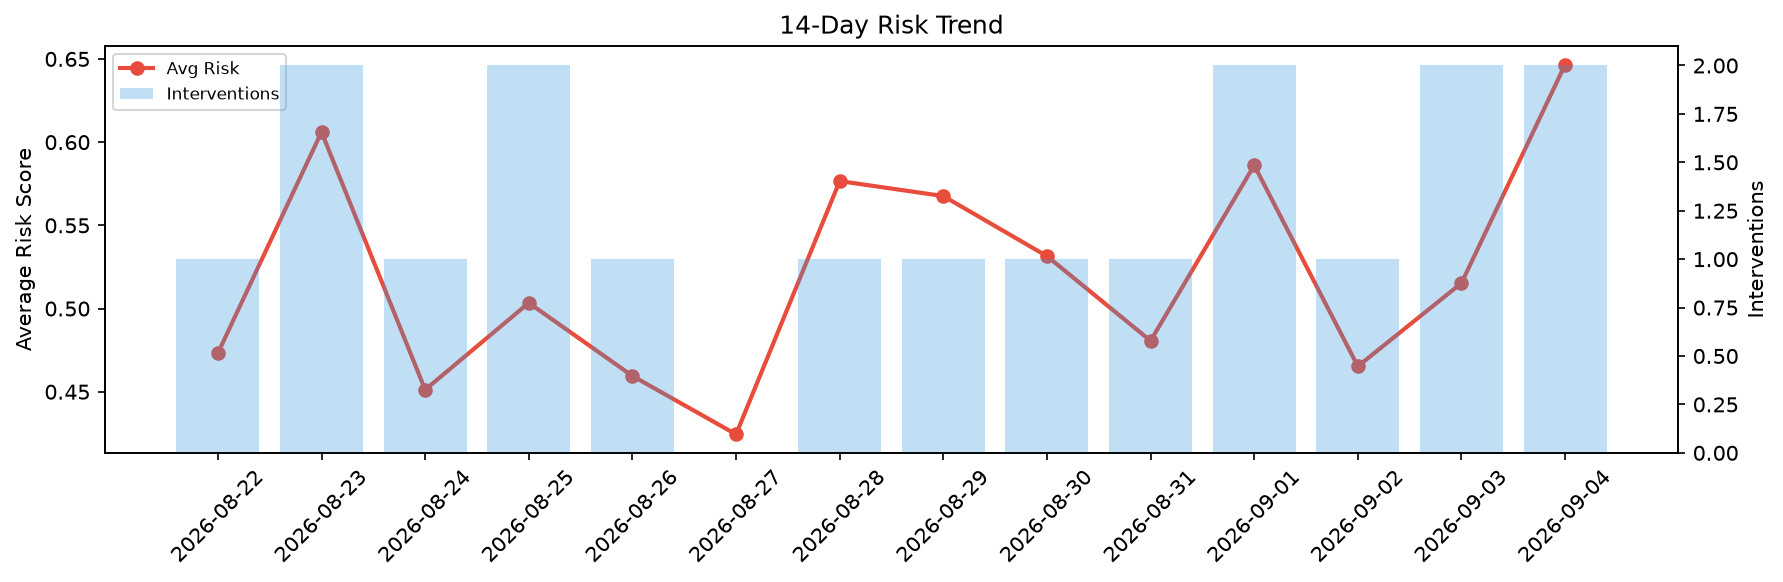
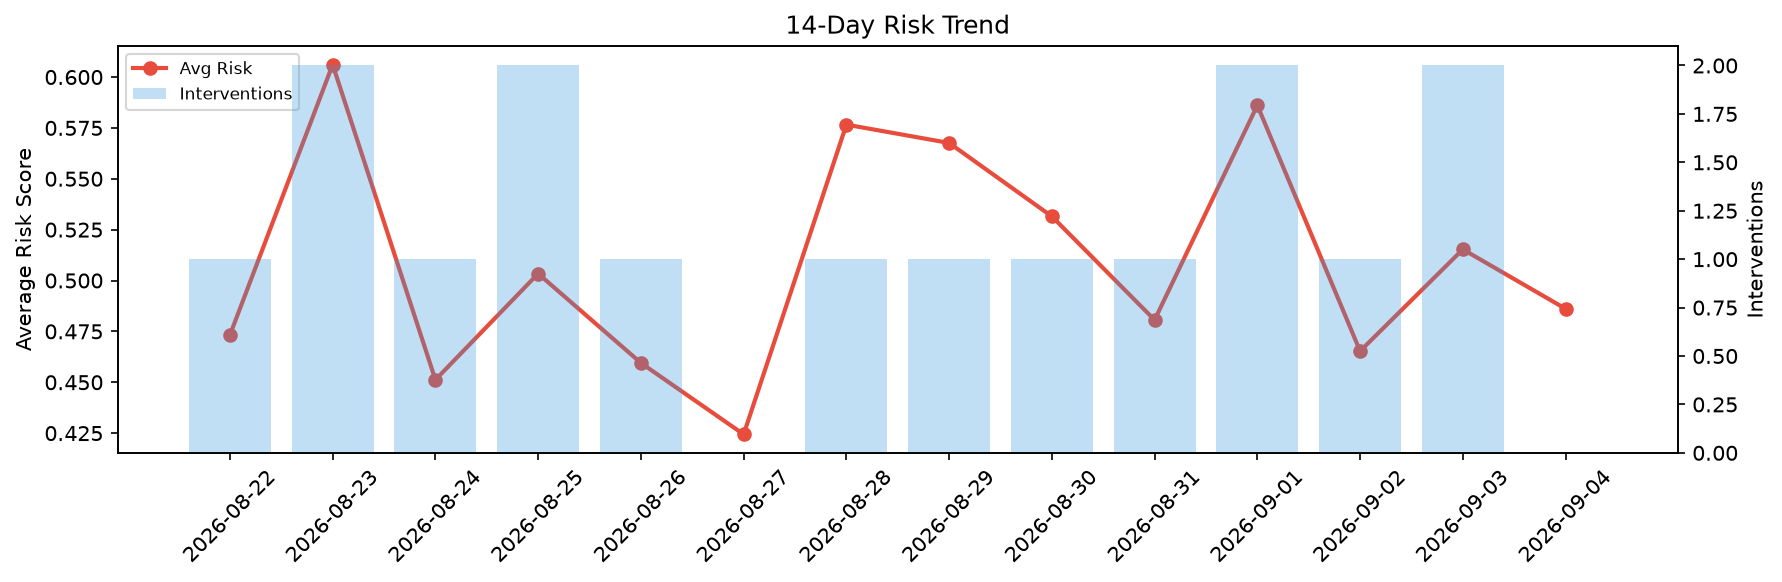
agent-improvement: daily cycle 2026-09-04T17:36

diff --git a/logs/2026-09-04.md b/logs/2026-09-04.md
@@ -1,6 +1,6 @@
 # Agent Improvement Report — 2026-09-04
 
-**Cycle ID:** `0a1d2b08` | **Avg Risk:** 0.6466 | **Interventions:** 2/4
+**Cycle ID:** `c0dbe144` | **Avg Risk:** 0.4861 | **Interventions:** 0/4
 
 ![Dashboard](2026-09-04_dashboard.png)
 
@@ -10,18 +10,18 @@
 
 | Domain | Risk Score | Decision | Alerts |
 |--------|-----------|----------|--------|
-| code_review | 0.5699 | monitor | coverage |
-| incident_response | 0.5551 | monitor | severity |
-| data_pipeline | 0.768 | intervene | freshness, schema_drift |
-| deployment | 0.6936 | intervene | rollback_rate, latency_p99 |
+| code_review | 0.4173 | monitor | none |
+| incident_response | 0.494 | monitor | severity |
+| data_pipeline | 0.5445 | monitor | none |
+| deployment | 0.4888 | monitor | latency_p99 |
 
 ## Delta vs Yesterday
 
 | Domain | Today | Yesterday | Change |
 |--------|-------|-----------|--------|
-| code_review | 0.5699 | 0.3569 | 📈 59.7% |
-| incident_response | 0.5551 | 0.7445 | 📉 -25.4% |
-| data_pipeline | 0.768 | 0.6711 | 📈 14.4% |
-| deployment | 0.6936 | 0.2888 | 📈 140.2% |
+| code_review | 0.4173 | 0.3569 | 📈 16.9% |
+| incident_response | 0.494 | 0.7445 | 📉 -33.6% |
+| data_pipeline | 0.5445 | 0.6711 | 📉 -18.9% |
+| deployment | 0.4888 | 0.2888 | 📈 69.3% |
 
 **Refinement:** `{'adjustment': 'tighten_thresholds', 'trend': 'degrading', 'window': 4}`
